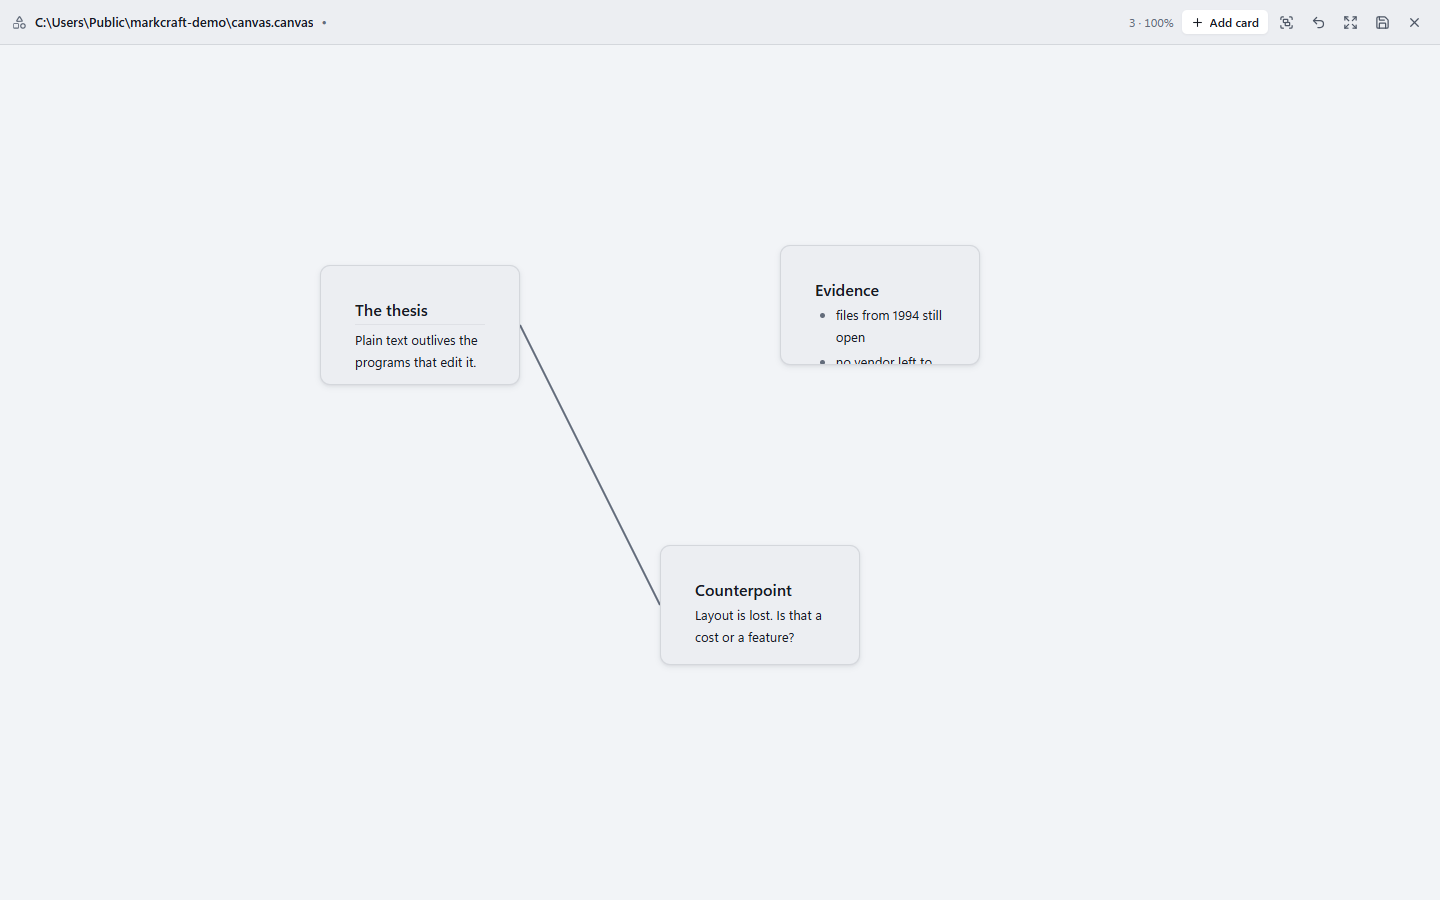
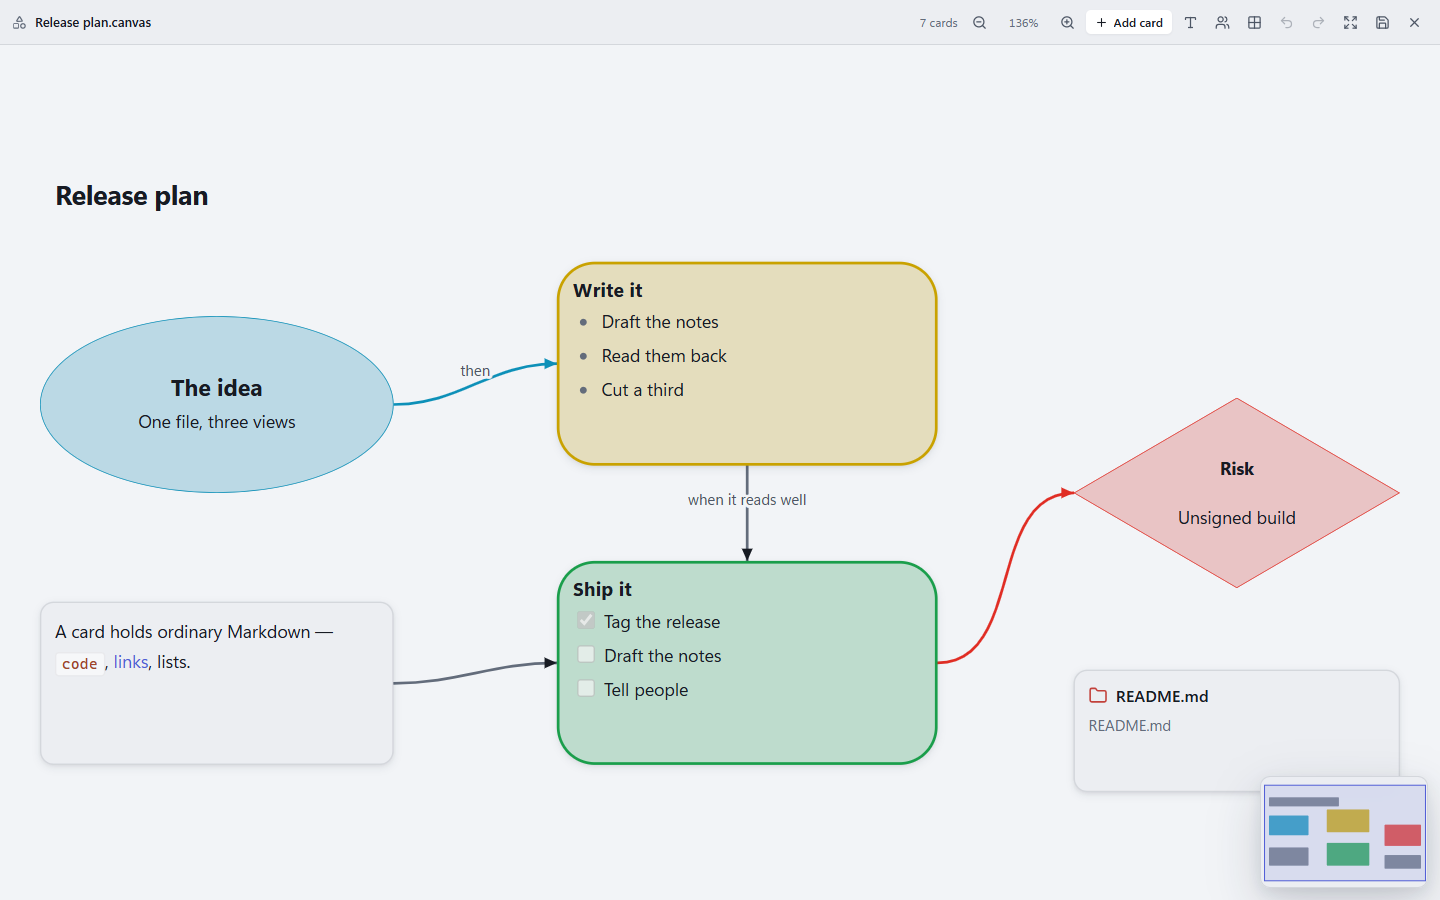
Keep a card's writing inside the shape drawn round it
The document surface pads its bottom by 45vh so the last line of a long file
can be scrolled to the middle of the window, and centres itself in a measure
of 46em. A card is neither of those things — it is a box a few hundred pixels
tall — and it was inheriting four hundred pixels of padding.

On a rectangle nothing showed, because its text is laid out from the top
anyway. On an ellipse, a diamond or a triangle, which centre it, the writing
was pushed clean out of the shape: the card drew, and it was empty. Measured
in the running window, the glyphs were landing a hundred pixels above the
card that owned them.

The canvas screenshot is retaken while it is true — the old one predates
shapes, colours, edge labels and headings without a box.

diff --git a/src/renderer/styles/document.css b/src/renderer/styles/document.css
@@ -582,6 +582,19 @@
  */
 .mc-canvas-card {
   font-size: 0.8125rem;
+
+  /*
+   * The document surface pads its bottom by 45vh so the last line of a long
+   * file can be scrolled to the middle of the window, and centres itself in a
+   * measure of 46em. A card is neither of those things: it is a box a few
+   * hundred pixels tall, and inheriting four hundred pixels of padding pushed
+   * its writing clean out of the shape — invisibly for a rectangle, where the
+   * text is laid out from the top anyway, and plainly for an ellipse, a
+   * diamond or a triangle, which centre it and had nothing to show.
+   */
+  max-width: none;
+  margin: 0;
+  padding: 0;
 }
 
 .mc-canvas-card > :first-child { margin-top: 0; }
